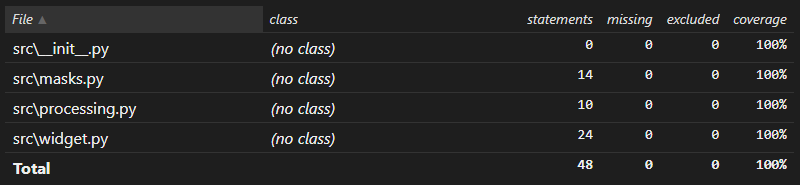
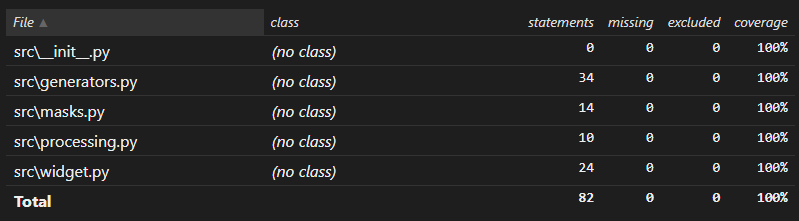
update README.md and html for pytest

diff --git a/tests/conftest.py b/tests/conftest.py
@@ -56,34 +56,49 @@ def fix_sorted_false():
 def fix_transactions():
     return [
         {
-            "id": 939719570, "state": "EXECUTED", "date": "2018-06-30T02:08:58.425572",
+            "id": 939719570,
+            "state": "EXECUTED",
+            "date": "2018-06-30T02:08:58.425572",
             "operationAmount": {"amount": "9824.07", "currency": {"name": "USD", "code": "USD"}},
-            "description": "Перевод организации", "from": "Счет 75106830613657916952",
-            "to": "Счет 11776614605963066702"
+            "description": "Перевод организации",
+            "from": "Счет 75106830613657916952",
+            "to": "Счет 11776614605963066702",
         },
         {
-            "id": 142264268, "state": "EXECUTED", "date": "2019-04-04T23:20:05.206878",
+            "id": 142264268,
+            "state": "EXECUTED",
+            "date": "2019-04-04T23:20:05.206878",
             "operationAmount": {"amount": "79114.93", "currency": {"name": "USD", "code": "USD"}},
-            "description": "Перевод со счета на счет", "from": "Счет 19708645243227258542",
-            "to": "Счет 75651667383060284188"
+            "description": "Перевод со счета на счет",
+            "from": "Счет 19708645243227258542",
+            "to": "Счет 75651667383060284188",
         },
         {
-            "id": 873106923, "state": "EXECUTED", "date": "2019-03-23T01:09:46.296404",
+            "id": 873106923,
+            "state": "EXECUTED",
+            "date": "2019-03-23T01:09:46.296404",
             "operationAmount": {"amount": "43318.34", "currency": {"name": "руб.", "code": "RUB"}},
-            "description": "Перевод со счета на счет", "from": "Счет 44812258784861134719",
-            "to": "Счет 74489636417521191160"
+            "description": "Перевод со счета на счет",
+            "from": "Счет 44812258784861134719",
+            "to": "Счет 74489636417521191160",
         },
         {
-            "id": 895315941, "state": "EXECUTED", "date": "2018-08-19T04:27:37.904916",
+            "id": 895315941,
+            "state": "EXECUTED",
+            "date": "2018-08-19T04:27:37.904916",
             "operationAmount": {"amount": "56883.54", "currency": {"name": "USD", "code": "USD"}},
-            "description": "Перевод с карты на карту", "from": "Visa Classic 6831982476737658",
-            "to": "Visa Platinum 8990922113665229"
+            "description": "Перевод с карты на карту",
+            "from": "Visa Classic 6831982476737658",
+            "to": "Visa Platinum 8990922113665229",
         },
         {
-            "id": 594226727, "state": "CANCELED", "date": "2018-09-12T21:27:25.241689",
+            "id": 594226727,
+            "state": "CANCELED",
+            "date": "2018-09-12T21:27:25.241689",
             "operationAmount": {"amount": "67314.70", "currency": {"name": "руб.", "code": "RUB"}},
-            "description": "Перевод организации", "from": "Visa Platinum 1246377376343588",
-            "to": "Счет 14211924144426031657"
+            "description": "Перевод организации",
+            "from": "Visa Platinum 1246377376343588",
+            "to": "Счет 14211924144426031657",
         },
     ]
 
@@ -92,28 +107,43 @@ def fix_transactions():
 def empty_descript_list():
     return [
         {
-            "id": 939719570, "state": "EXECUTED", "date": "2018-06-30T02:08:58.425572",
+            "id": 939719570,
+            "state": "EXECUTED",
+            "date": "2018-06-30T02:08:58.425572",
             "operationAmount": {"amount": "9824.07", "currency": {"name": "USD", "code": "USD"}},
-            "from": "Счет 75106830613657916952", "to": "Счет 11776614605963066702"
+            "from": "Счет 75106830613657916952",
+            "to": "Счет 11776614605963066702",
         },
         {
-            "id": 142264268, "state": "EXECUTED", "date": "2019-04-04T23:20:05.206878",
-            "operationAmount": {"amount": "79114.93", "currency": {"name": "USD", "code": "USD"}}
-            , "from": "Счет 19708645243227258542", "to": "Счет 75651667383060284188"
+            "id": 142264268,
+            "state": "EXECUTED",
+            "date": "2019-04-04T23:20:05.206878",
+            "operationAmount": {"amount": "79114.93", "currency": {"name": "USD", "code": "USD"}},
+            "from": "Счет 19708645243227258542",
+            "to": "Счет 75651667383060284188",
         },
         {
-            "id": 873106923, "state": "EXECUTED", "date": "2019-03-23T01:09:46.296404",
+            "id": 873106923,
+            "state": "EXECUTED",
+            "date": "2019-03-23T01:09:46.296404",
             "operationAmount": {"amount": "43318.34", "currency": {"name": "руб.", "code": "RUB"}},
-            "from": "Счет 44812258784861134719", "to": "Счет 74489636417521191160"
+            "from": "Счет 44812258784861134719",
+            "to": "Счет 74489636417521191160",
         },
         {
-            "id": 895315941, "state": "EXECUTED", "date": "2018-08-19T04:27:37.904916",
+            "id": 895315941,
+            "state": "EXECUTED",
+            "date": "2018-08-19T04:27:37.904916",
             "operationAmount": {"amount": "56883.54", "currency": {"name": "USD", "code": "USD"}},
-            "from": "Visa Classic 6831982476737658", "to": "Visa Platinum 8990922113665229"
+            "from": "Visa Classic 6831982476737658",
+            "to": "Visa Platinum 8990922113665229",
         },
         {
-            "id": 594226727, "state": "CANCELED", "date": "2018-09-12T21:27:25.241689",
+            "id": 594226727,
+            "state": "CANCELED",
+            "date": "2018-09-12T21:27:25.241689",
             "operationAmount": {"amount": "67314.70", "currency": {"name": "руб.", "code": "RUB"}},
-            "from": "Visa Platinum 1246377376343588", "to": "Счет 14211924144426031657"
+            "from": "Visa Platinum 1246377376343588",
+            "to": "Счет 14211924144426031657",
         },
     ]

diff --git a/tests/test_generators.py b/tests/test_generators.py
@@ -1,42 +1,57 @@
 import pytest
-from mypy.erasetype import erase_type
 
-from src.generators import filter_by_currency, transaction_descriptions, card_number_generator, transactions
+from src.generators import card_number_generator, filter_by_currency, transaction_descriptions
 
 
 def test_filter_by_currency_usd_rub(fix_transactions):
     var_test_filter_by_currency_usd = filter_by_currency(fix_transactions, "USD")
     var_test_filter_by_currency_rub = filter_by_currency(fix_transactions, "RUB")
     assert next(var_test_filter_by_currency_usd) == {
-        "id": 939719570, "state": "EXECUTED", "date": "2018-06-30T02:08:58.425572",
+        "id": 939719570,
+        "state": "EXECUTED",
+        "date": "2018-06-30T02:08:58.425572",
         "operationAmount": {"amount": "9824.07", "currency": {"name": "USD", "code": "USD"}},
-        "description": "Перевод организации", "from": "Счет 75106830613657916952",
-        "to": "Счет 11776614605963066702"
+        "description": "Перевод организации",
+        "from": "Счет 75106830613657916952",
+        "to": "Счет 11776614605963066702",
     }
     assert next(var_test_filter_by_currency_usd) == {
-        "id": 142264268, "state": "EXECUTED", "date": "2019-04-04T23:20:05.206878",
+        "id": 142264268,
+        "state": "EXECUTED",
+        "date": "2019-04-04T23:20:05.206878",
         "operationAmount": {"amount": "79114.93", "currency": {"name": "USD", "code": "USD"}},
-        "description": "Перевод со счета на счет", "from": "Счет 19708645243227258542",
-        "to": "Счет 75651667383060284188"
+        "description": "Перевод со счета на счет",
+        "from": "Счет 19708645243227258542",
+        "to": "Счет 75651667383060284188",
     }
     assert next(var_test_filter_by_currency_usd) == {
-        "id": 895315941, "state": "EXECUTED", "date": "2018-08-19T04:27:37.904916",
+        "id": 895315941,
+        "state": "EXECUTED",
+        "date": "2018-08-19T04:27:37.904916",
         "operationAmount": {"amount": "56883.54", "currency": {"name": "USD", "code": "USD"}},
-        "description": "Перевод с карты на карту", "from": "Visa Classic 6831982476737658",
-        "to": "Visa Platinum 8990922113665229"
-        }
+        "description": "Перевод с карты на карту",
+        "from": "Visa Classic 6831982476737658",
+        "to": "Visa Platinum 8990922113665229",
+    }
     assert next(var_test_filter_by_currency_rub) == {
-        "id": 873106923, "state": "EXECUTED", "date": "2019-03-23T01:09:46.296404",
+        "id": 873106923,
+        "state": "EXECUTED",
+        "date": "2019-03-23T01:09:46.296404",
         "operationAmount": {"amount": "43318.34", "currency": {"name": "руб.", "code": "RUB"}},
-        "description": "Перевод со счета на счет", "from": "Счет 44812258784861134719",
-        "to": "Счет 74489636417521191160"
+        "description": "Перевод со счета на счет",
+        "from": "Счет 44812258784861134719",
+        "to": "Счет 74489636417521191160",
     }
     assert next(var_test_filter_by_currency_rub) == {
-        "id": 594226727, "state": "CANCELED", "date": "2018-09-12T21:27:25.241689",
+        "id": 594226727,
+        "state": "CANCELED",
+        "date": "2018-09-12T21:27:25.241689",
         "operationAmount": {"amount": "67314.70", "currency": {"name": "руб.", "code": "RUB"}},
-        "description": "Перевод организации", "from": "Visa Platinum 1246377376343588",
-        "to": "Счет 14211924144426031657"
+        "description": "Перевод организации",
+        "from": "Visa Platinum 1246377376343588",
+        "to": "Счет 14211924144426031657",
     }
+
 
 def test_filter_by_currency_or_list_miss(fix_transactions):
     assert next(filter_by_currency(fix_transactions, "QWERTY")) == "Транзакций в валюте 'QWERTY' нет"
@@ -59,13 +74,38 @@ def test_transaction_descriptions_empty_list(empty_descript_list):
     assert next(gen_descript_empty_descript) == "Данных по операциям нет"
 
 
-@pytest.mark.parametrize("start_range, end_range, result", [
-        (1, 10, ["0000 0000 0000 0001", "0000 0000 0000 0002", "0000 0000 0000 0003", "0000 0000 0000 0004",
-        "0000 0000 0000 0005", "0000 0000 0000 0006", "0000 0000 0000 0007", "0000 0000 0000 0008",
-        "0000 0000 0000 0009", "0000 0000 0000 0010"]),
-        (9999999999999995, 9999999999999999, ["9999 9999 9999 9995", "9999 9999 9999 9996", "9999 9999 9999 9997", "9999 9999 9999 9998",
-        "9999 9999 9999 9999"])
-])
+@pytest.mark.parametrize(
+    "start_range, end_range, result",
+    [
+        (
+            1,
+            10,
+            [
+                "0000 0000 0000 0001",
+                "0000 0000 0000 0002",
+                "0000 0000 0000 0003",
+                "0000 0000 0000 0004",
+                "0000 0000 0000 0005",
+                "0000 0000 0000 0006",
+                "0000 0000 0000 0007",
+                "0000 0000 0000 0008",
+                "0000 0000 0000 0009",
+                "0000 0000 0000 0010",
+            ],
+        ),
+        (
+            9999999999999995,
+            9999999999999999,
+            [
+                "9999 9999 9999 9995",
+                "9999 9999 9999 9996",
+                "9999 9999 9999 9997",
+                "9999 9999 9999 9998",
+                "9999 9999 9999 9999",
+            ],
+        ),
+    ],
+)
 def test_card_number_generator(start_range, end_range, result):
     gen_card_number_generator = card_number_generator(start_range, end_range)
     assert list(gen_card_number_generator) == result

diff --git a/src/generators.py b/src/generators.py
@@ -1,38 +1,52 @@
 from typing import Any
 
-
 transactions = [
-        {
-            "id": 939719570, "state": "EXECUTED", "date": "2018-06-30T02:08:58.425572",
-            "operationAmount": {"amount": "9824.07", "currency": {"name": "USD", "code": "USD"}},
-            "description": "Перевод организации", "from": "Счет 75106830613657916952",
-            "to": "Счет 11776614605963066702"
-        },
-        {
-            "id": 142264268, "state": "EXECUTED", "date": "2019-04-04T23:20:05.206878",
-            "operationAmount": {"amount": "79114.93", "currency": {"name": "USD", "code": "USD"}},
-            "description": "Перевод со счета на счет", "from": "Счет 19708645243227258542",
-            "to": "Счет 75651667383060284188"
-        },
-        {
-            "id": 873106923, "state": "EXECUTED", "date": "2019-03-23T01:09:46.296404",
-            "operationAmount": {"amount": "43318.34", "currency": {"name": "руб.", "code": "RUB"}},
-            "description": "Перевод со счета на счет", "from": "Счет 44812258784861134719",
-            "to": "Счет 74489636417521191160"
-        },
-        {
-            "id": 895315941, "state": "EXECUTED", "date": "2018-08-19T04:27:37.904916",
-            "operationAmount": {"amount": "56883.54", "currency": {"name": "USD", "code": "USD"}},
-            "description": "Перевод с карты на карту", "from": "Visa Classic 6831982476737658",
-            "to": "Visa Platinum 8990922113665229"
-        },
-        {
-            "id": 594226727, "state": "CANCELED", "date": "2018-09-12T21:27:25.241689",
-            "operationAmount": {"amount": "67314.70", "currency": {"name": "руб.", "code": "RUB"}},
-            "description": "Перевод организации", "from": "Visa Platinum 1246377376343588",
-            "to": "Счет 14211924144426031657"
-        },
-    ]
+    {
+        "id": 939719570,
+        "state": "EXECUTED",
+        "date": "2018-06-30T02:08:58.425572",
+        "operationAmount": {"amount": "9824.07", "currency": {"name": "USD", "code": "USD"}},
+        "description": "Перевод организации",
+        "from": "Счет 75106830613657916952",
+        "to": "Счет 11776614605963066702",
+    },
+    {
+        "id": 142264268,
+        "state": "EXECUTED",
+        "date": "2019-04-04T23:20:05.206878",
+        "operationAmount": {"amount": "79114.93", "currency": {"name": "USD", "code": "USD"}},
+        "description": "Перевод со счета на счет",
+        "from": "Счет 19708645243227258542",
+        "to": "Счет 75651667383060284188",
+    },
+    {
+        "id": 873106923,
+        "state": "EXECUTED",
+        "date": "2019-03-23T01:09:46.296404",
+        "operationAmount": {"amount": "43318.34", "currency": {"name": "руб.", "code": "RUB"}},
+        "description": "Перевод со счета на счет",
+        "from": "Счет 44812258784861134719",
+        "to": "Счет 74489636417521191160",
+    },
+    {
+        "id": 895315941,
+        "state": "EXECUTED",
+        "date": "2018-08-19T04:27:37.904916",
+        "operationAmount": {"amount": "56883.54", "currency": {"name": "USD", "code": "USD"}},
+        "description": "Перевод с карты на карту",
+        "from": "Visa Classic 6831982476737658",
+        "to": "Visa Platinum 8990922113665229",
+    },
+    {
+        "id": 594226727,
+        "state": "CANCELED",
+        "date": "2018-09-12T21:27:25.241689",
+        "operationAmount": {"amount": "67314.70", "currency": {"name": "руб.", "code": "RUB"}},
+        "description": "Перевод организации",
+        "from": "Visa Platinum 1246377376343588",
+        "to": "Счет 14211924144426031657",
+    },
+]
 
 
 def filter_by_currency(transact_list: list[dict[Any, Any]], currency: str) -> Any:

diff --git a/moduls_test/test.generators.py b/moduls_test/test.generators.py
@@ -24,7 +24,7 @@ input_user = str(input(f"===> Введите одно из допустимых 
 print(f"===> Транзакции по фильтру currency_code = {input_user}:")
 print("===========================")
 currency_transactions = filter_by_currency(transactions, input_user)
-range_iterations = count_code(transactions,input_user)
+range_iterations = count_code(transactions, input_user)
 for i in range(range_iterations):
     next_transact = input("===> Введите Enter для вывода транзакции ")
     print(next(currency_transactions))

diff --git a/README.md b/README.md
@@ -73,8 +73,27 @@
    
        [3]: /data/images/for_readme_file/Example_processing.png
        </details>
+    
+4. Модуль _**generators**_
+    - Доступные функции:
+      - filter_by_currency
+      - transaction_descriptions
+      - card_number_generator
       
-Все тесты функций можно выполнять из директории [tests](/tests)
+      _Пример импорта:_
+        ```
+      from src.generators import filter_by_currency
+      ```
+
+       <details>
+       <summary>Пример работы:</summary>
+      
+       [![Example_processing][4]][4]
+   
+       [4]: /data/images/for_readme_file/Example_generators.png
+       </details>    
+      
+Все тесты функций можно выполнять из директории [moduls_test](/moduls_test)
 
 ===============================================================================================
 ## Pytest
@@ -86,25 +105,25 @@
    <details>
    <summary>Проверка по файлам:</summary>
   
-   [![Example_processing][4]][4]
+   [![Example_processing][5]][5]
 
-   [4]: /data/images/for_readme_file/Pytest_files.png
+   [5]: /data/images/for_readme_file/Pytest_files.png
    </details>
 
    <details>
    <summary>Проверка по функциям:</summary>
   
-   [![Example_processing][4]][4]
+   [![Example_processing][6]][6]
 
-   [4]: /data/images/for_readme_file/Pytest_functions.png
+   [6]: /data/images/for_readme_file/Pytest_functions.png
    </details>
 
    <details>
    <summary>Проверка по классам:</summary>
   
-   [![Example_processing][4]][4]
+   [![Example_processing][7]][7]
 
-   [4]: /data/images/for_readme_file/Pytest_classes.png
+   [7]: /data/images/for_readme_file/Pytest_classes.png
    </details>
 
 ===============================================================================================
